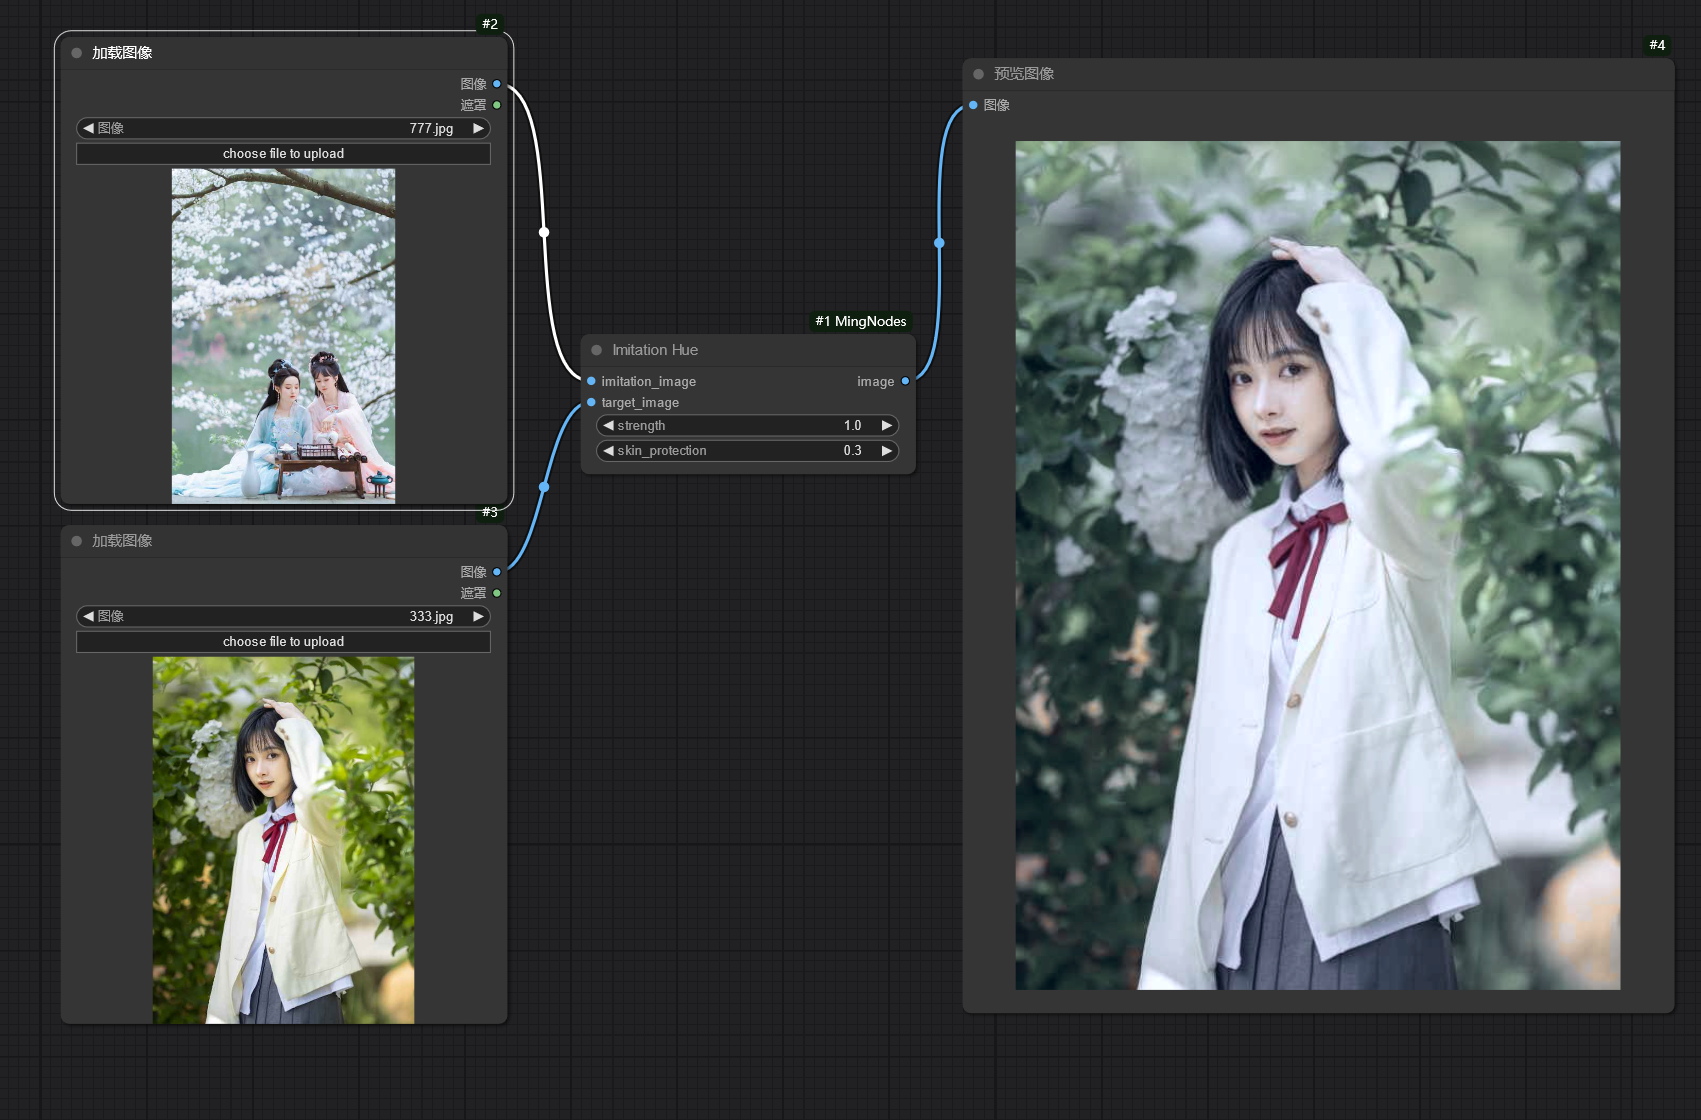
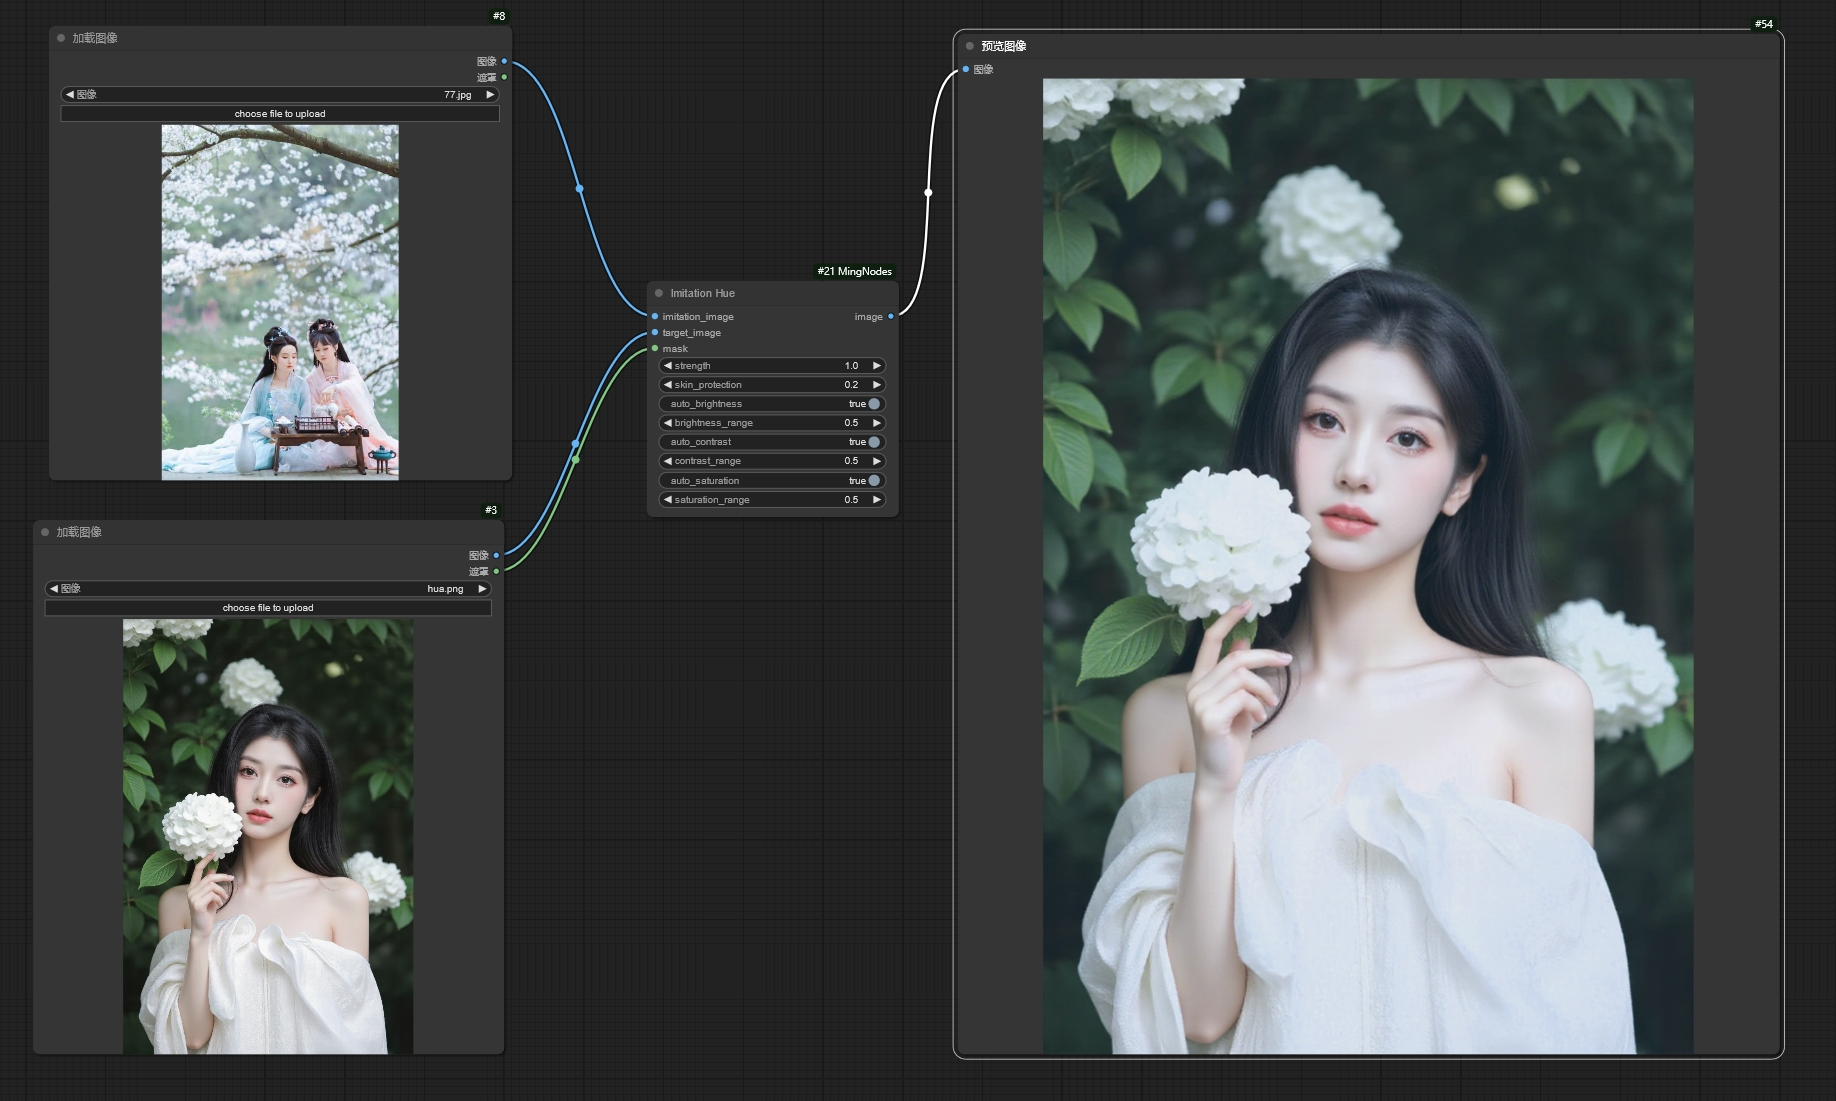
修改

diff --git a/nodes/imitation_hue.py b/nodes/imitation_hue.py
@@ -14,10 +14,40 @@ def is_skin_or_lips(lab_image):
     return (skin | lips).astype(np.float32)
 
 
-def adjust_brightness(image, factor):
+def adjust_brightness(image, factor, mask=None):
     hsv = cv2.cvtColor(image, cv2.COLOR_BGR2HSV)
-    hsv[:, :, 2] = np.clip(hsv[:, :, 2] * factor, 0, 255).astype(np.uint8)
+    v = hsv[:, :, 2].astype(np.float32)
+    if mask is not None:
+        mask = mask.squeeze()
+        v = np.where(mask > 0, np.clip(v * factor, 0, 255), v)
+    else:
+        v = np.clip(v * factor, 0, 255)
+    hsv[:, :, 2] = v.astype(np.uint8)
     return cv2.cvtColor(hsv, cv2.COLOR_HSV2BGR)
+
+
+def adjust_saturation(image, factor, mask=None):
+    hsv = cv2.cvtColor(image, cv2.COLOR_BGR2HSV)
+    s = hsv[:, :, 1].astype(np.float32)
+    if mask is not None:
+        mask = mask.squeeze()
+        s = np.where(mask > 0, np.clip(s * factor, 0, 255), s)
+    else:
+        s = np.clip(s * factor, 0, 255)
+    hsv[:, :, 1] = s.astype(np.uint8)
+    return cv2.cvtColor(hsv, cv2.COLOR_HSV2BGR)
+
+
+def adjust_contrast(image, factor, mask=None):
+    mean = np.mean(image)
+    adjusted = image.astype(np.float32)
+    if mask is not None:
+        mask = mask.squeeze()
+        mask = np.repeat(mask[:, :, np.newaxis], 3, axis=2)  # 将 mask 扩展到 3 个通道
+        adjusted = np.where(mask > 0, np.clip((adjusted - mean) * factor + mean, 0, 255), adjusted)
+    else:
+        adjusted = np.clip((adjusted - mean) * factor + mean, 0, 255)
+    return adjusted.astype(np.uint8)
 
 
 def tensor2cv2(image: torch.Tensor) -> np.array:
@@ -28,10 +58,8 @@ def tensor2cv2(image: torch.Tensor) -> np.array:
     return cv2.cvtColor(cv2image, cv2.COLOR_RGB2BGR)
 
 
-def color_transfer(source, target, mask, strength=0.8, skin_protection=0.7):
-    source_brightness = np.mean(cv2.cvtColor(source, cv2.COLOR_BGR2GRAY))
-    target_brightness = np.mean(cv2.cvtColor(target, cv2.COLOR_BGR2GRAY))
-
+def color_transfer(source, target, mask, strength=0.8, skin_protection=0.7, auto_brightness=False, brightness_range=0.5, auto_contrast=False, contrast_range=0.5,
+                   auto_saturation=False, saturation_range=0.5):
     source_lab = cv2.cvtColor(source, cv2.COLOR_BGR2LAB).astype(np.float32)
     target_lab = cv2.cvtColor(target, cv2.COLOR_BGR2LAB).astype(np.float32)
 
@@ -64,9 +92,55 @@ def color_transfer(source, target, mask, strength=0.8, skin_protection=0.7):
     result_bgr = cv2.cvtColor(result_lab.astype(np.uint8), cv2.COLOR_LAB2BGR)
     result_bgr = cv2.GaussianBlur(result_bgr, (3, 3), 0)
     final_result = cv2.addWeighted(target, 1 - strength, result_bgr, strength, 0)
-    brightness_difference = source_brightness - target_brightness
-    brightness_factor = 1.0 + np.clip(brightness_difference / 255 * 0.4, -0.4, 0.4)
-    final_result = adjust_brightness(final_result, brightness_factor)
+
+    if mask is not None:
+        mask = cv2.resize(mask, (target.shape[1], target.shape[0]))
+        mask = mask.astype(np.float32) / 255.0
+        if auto_brightness:
+            source_brightness = np.mean(cv2.cvtColor(source, cv2.COLOR_BGR2GRAY))
+            target_brightness = np.mean(cv2.cvtColor(target, cv2.COLOR_BGR2GRAY))
+            brightness_difference = source_brightness - target_brightness
+            brightness_factor = 1.0 + np.clip(brightness_difference / 255 * brightness_range, brightness_range*-1, brightness_range)
+            final_result = adjust_brightness(final_result, brightness_factor, mask)
+        if auto_contrast:
+            source_gray = cv2.cvtColor(source, cv2.COLOR_BGR2GRAY)
+            target_gray = cv2.cvtColor(target, cv2.COLOR_BGR2GRAY)
+            source_contrast = np.std(source_gray)
+            target_contrast = np.std(target_gray)
+            contrast_difference = source_contrast - target_contrast
+            contrast_factor = 1.0 + np.clip(contrast_difference / 255, contrast_range*-1, contrast_range)
+            final_result = adjust_contrast(final_result, contrast_factor, mask)
+        if auto_saturation:
+            source_hsv = cv2.cvtColor(source, cv2.COLOR_BGR2HSV)
+            target_hsv = cv2.cvtColor(target, cv2.COLOR_BGR2HSV)
+            source_saturation = np.mean(source_hsv[:, :, 1])
+            target_saturation = np.mean(target_hsv[:, :, 1])
+            saturation_difference = source_saturation - target_saturation
+            saturation_factor = 1.0 + np.clip(saturation_difference / 255, saturation_range*-1, saturation_range)
+            final_result = adjust_saturation(final_result, saturation_factor, mask)
+    else:
+        if auto_brightness:
+            source_brightness = np.mean(cv2.cvtColor(source, cv2.COLOR_BGR2GRAY))
+            target_brightness = np.mean(cv2.cvtColor(target, cv2.COLOR_BGR2GRAY))
+            brightness_difference = source_brightness - target_brightness
+            brightness_factor = 1.0 + np.clip(brightness_difference / 255 * brightness_range, brightness_range*-1, brightness_range)
+            final_result = adjust_brightness(final_result, brightness_factor, mask)
+        if auto_contrast:
+            source_gray = cv2.cvtColor(source, cv2.COLOR_BGR2GRAY)
+            target_gray = cv2.cvtColor(target, cv2.COLOR_BGR2GRAY)
+            source_contrast = np.std(source_gray)
+            target_contrast = np.std(target_gray)
+            contrast_difference = source_contrast - target_contrast
+            contrast_factor = 1.0 + np.clip(contrast_difference / 255, contrast_range*-1, contrast_range)
+            final_result = adjust_contrast(final_result, contrast_factor, mask)
+        if auto_saturation:
+            source_hsv = cv2.cvtColor(source, cv2.COLOR_BGR2HSV)
+            target_hsv = cv2.cvtColor(target, cv2.COLOR_BGR2HSV)
+            source_saturation = np.mean(source_hsv[:, :, 1])
+            target_saturation = np.mean(target_hsv[:, :, 1])
+            saturation_difference = source_saturation - target_saturation
+            saturation_factor = 1.0 + np.clip(saturation_difference / 255, saturation_range*-1, saturation_range)
+            final_result = adjust_saturation(final_result, saturation_factor, mask)
 
     return final_result
 
@@ -80,6 +154,12 @@ class ImitationHueNode:
                 "target_image": ("IMAGE",),
                 "strength": ("FLOAT", {"default": 1.0, "min": 0.1, "max": 1.0, "step": 0.1}),
                 "skin_protection": ("FLOAT", {"default": 0.2, "min": 0, "max": 1.0, "step": 0.1}),
+                "auto_brightness": ("BOOLEAN", {"default": False}),
+                "brightness_range": ("FLOAT", {"default": 0.5, "min": 0.1, "max": 1.0, "step": 0.1}),
+                "auto_contrast": ("BOOLEAN", {"default": False}),
+                "contrast_range": ("FLOAT", {"default": 0.5, "min": 0.1, "max": 1.0, "step": 0.1}),
+                "auto_saturation": ("BOOLEAN", {"default": False}),
+                "saturation_range": ("FLOAT", {"default": 0.5, "min": 0.1, "max": 1.0, "step": 0.1}),
             },
             "optional": {
                 "mask": ("MASK", {"default": None}),
@@ -92,7 +172,8 @@ class ImitationHueNode:
     RETURN_NAMES = ("image",)
     FUNCTION = "imitation_hue"
 
-    def imitation_hue(self, imitation_image, target_image, strength, skin_protection, mask=None):
+    def imitation_hue(self, imitation_image, target_image, strength, skin_protection, auto_brightness, brightness_range, auto_contrast, contrast_range,
+                      auto_saturation, saturation_range, mask=None):
         for img in imitation_image:
             img_cv1 = tensor2cv2(img)
 
@@ -105,7 +186,8 @@ class ImitationHueNode:
                 img_cv3 = img3.cpu().numpy()
                 img_cv3 = (img_cv3 * 255).astype(np.uint8)
 
-        result_img = color_transfer(img_cv1, img_cv2, img_cv3, strength, skin_protection)
+        result_img = color_transfer(img_cv1, img_cv2, img_cv3, strength, skin_protection, auto_brightness, brightness_range,
+                                    auto_contrast, contrast_range, auto_saturation, saturation_range)
         result_img = cv2.cvtColor(result_img, cv2.COLOR_BGR2RGB)
         rst = torch.from_numpy(result_img.astype(np.float32) / 255.0).unsqueeze(0)
 

diff --git a/README.md b/README.md
@@ -4,9 +4,17 @@
 
 Some useful  functions developed, the specific workflow is in the workflow folder
 
-1: 模仿像素蛋糕追色的功能，参数强度是色彩迁移的强度，皮肤保护参数值皮肤色彩越大越接近原图色彩,支持区域色彩迁移，加入SAM语义分割制作蒙板即可。还有需要注意的是，如果是相机的原片jpg或png等图片，需要到PS里面转下格式才传入，因为相机的色彩空间可能不同。
+1: 模仿像素蛋糕追色的功能，参数强度是色彩迁移的强度，皮肤保护参数值皮肤色彩越大越接近原图色彩,支持区域色彩迁移，加入SAM语义分割制作蒙板即可。
+可以打开是否调节自动亮度，对比度，和饱和度选项，各项值的参数就是自动调节的范围0.5就是50%范围内自动调节。 
+还有需要注意的是，如果是相机的原片JPG或PNG等图片，需要到PS里面转下相应格式再传入，因为相机的色彩空间可能不同。
 
-Imitates the color tracking function of pixel cake. The parameter intensity is the intensity of color migration. The larger the face protection parameter value, the closer it is to the original image.Supports regional color migration, just add SAM semantic segmentation to create a mask。It should also be noted that if it is a camera's original JPG or PNG image, it needs to be converted to PS format before being transmitted, as the color space of the camera may be different.
+Imitates the color tracking function of pixel cake. The parameter intensity is the intensity of color migration. 
+The larger the face protection parameter value, the closer it is to the original image.
+Supports regional color migration, just add SAM semantic segmentation to create a mask。
+You can turn on the options to adjust the automatic brightness, contrast, and saturation. 
+The parameters for each value are within the automatic adjustment range of 0.5, which is 50% automatic adjustment.
+It should also be noted that if it is a camera's original JPG or PNG image, 
+it needs to be converted to PS format before being transmitted, as the color space of the camera may be different.
 
 ![Image text](https://github.com/mingsky-ai/ComfyUI-MingNodes/blob/main/images/imitation1.png?raw=true)
 
@@ -14,21 +22,26 @@ Imitates the color tracking function of pixel cake. The parameter intensity is t
 
 ![Image text](https://github.com/mingsky-ai/ComfyUI-MingNodes/blob/main/images/imitation3.png?raw=true)
 
-2: IC-Light的自定义光源，可以定义光源各种形状，位置偏移(位置可调整为负数)，缩放，亮度，旋转，背景和光源颜色，图片高斯模糊,可以多个光源组合在一起，绘制任意图像的光源。
+2: IC-Light的自定义光源，可以定义光源各种形状，位置偏移(位置可调整为负数)，缩放，亮度，旋转，背景和光源颜色，图片高斯模糊,
+可以多个光源组合在一起，绘制任意图像的光源。
 
-IC-Light's custom light source can define various shapes, position offsets (position can be adjusted to negative numbers), scale, brightness, rotation, background and light color，gaussian blur of image.multiple light sources can be combined together to draw the light source of any image.
+IC-Light's custom light source can define various shapes, position offsets (position can be adjusted to negative numbers), 
+scale, brightness, rotation, background and light color，gaussian blur of image.multiple light sources can be combined together to draw the light source of any image.
 
 ![Image text](https://github.com/mingsky-ai/ComfyUI-MingNodes/blob/main/images/light_source.png?raw=true)
 
-3：图片水印功能，可以添加图片水印和文字水印，可以调整水印的位置，大小，透明度，文字水印还可以自定义字体颜色和字体，可以自己增加字体，放在插件目录的fonts文件夹下。
+3：图片水印功能，可以添加图片水印和文字水印，可以调整水印的位置，大小，透明度，文字水印还可以自定义字体颜色和字体，可以自己增加字体，
+放在插件目录的fonts文件夹下。
 
-The image watermark function can add image watermarks and text watermarks. You can adjust the position, size, and transparency of the watermark. The text watermark can also customize the font color and font. You can add fonts yourself and put them in the fonts folder of the plug-in directory.
+The image watermark function can add image watermarks and text watermarks. You can adjust the position, size, 
+and transparency of the watermark. The text watermark can also customize the font color and font. You can add fonts yourself and put them in the fonts folder of the plug-in directory.
 
 ![Image text](https://github.com/mingsky-ai/ComfyUI-MingNodes/blob/main/images/watermark.png?raw=true)
 
 4：一个是百度翻译，可以中英繁之间的翻译，注意要填入百度的AppID和Appkey，可以到百度翻译申请，免费的。
 
-Baidu Translate, which can translate between Chinese, English and Traditional Chinese. Please note that you need to fill in Baidu's AppID and Appkey. You can apply for it at Baidu Translate, it is free.
+Baidu Translate, which can translate between Chinese, English and Traditional Chinese. 
+Please note that you need to fill in Baidu's AppID and Appkey. You can apply for it at Baidu Translate, it is free.
 
 注册地址 Registered Address：
 
